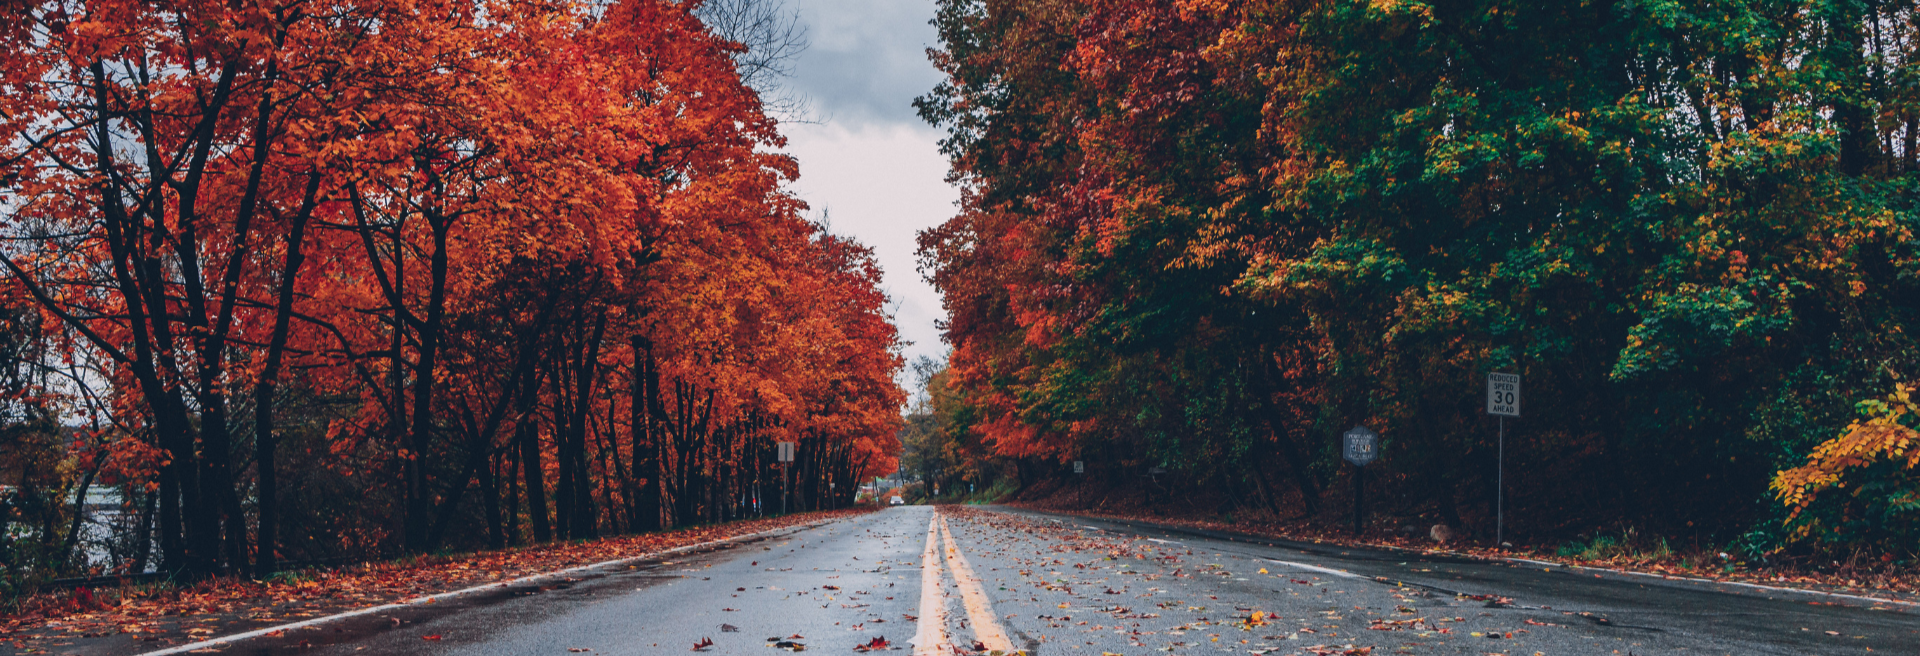
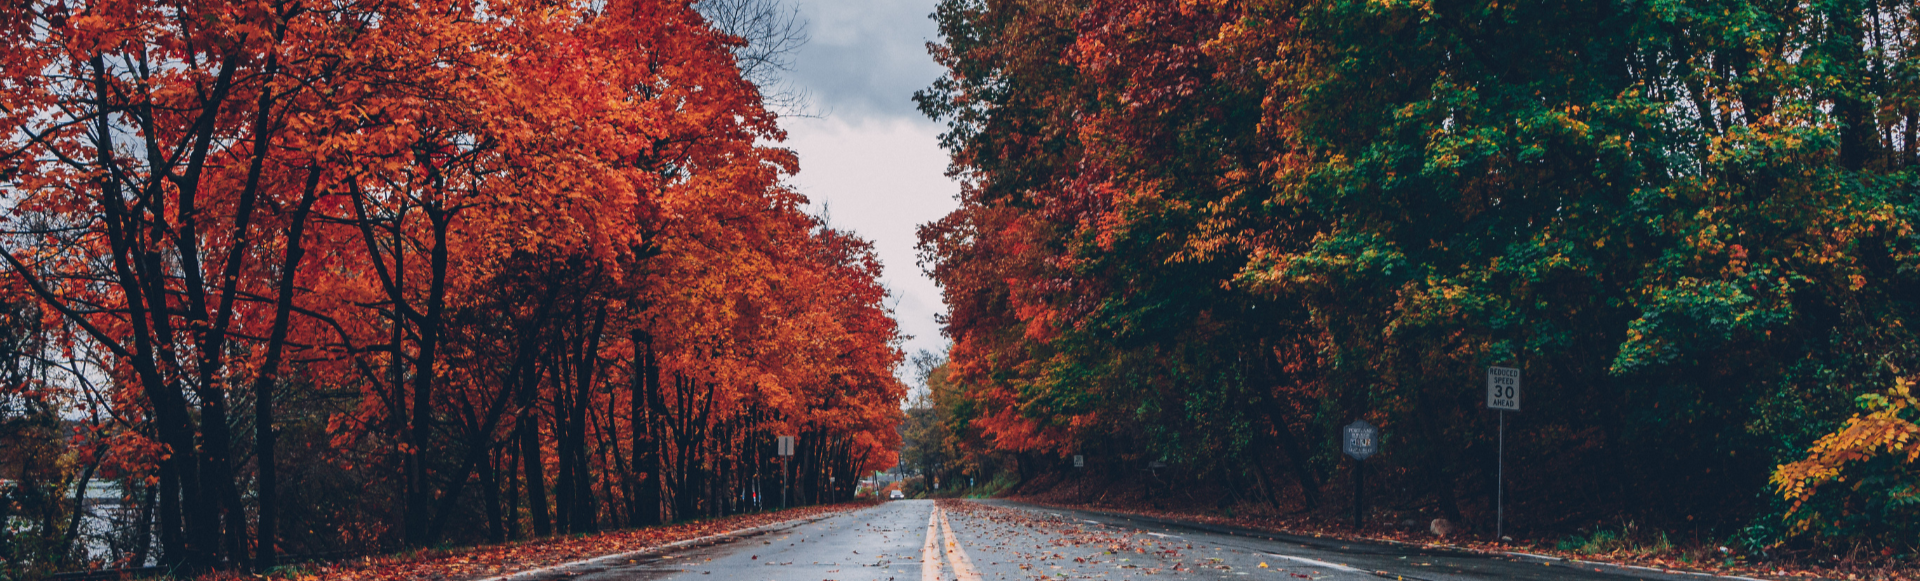
made services photos unique and added text to monthly rental page

diff --git a/src/Components/Layout/MainArea/ServicesPage/MonthlyRental/MonthlyRental.tsx b/src/Components/Layout/MainArea/ServicesPage/MonthlyRental/MonthlyRental.tsx
@@ -23,10 +23,10 @@ function MonthlyRental(): JSX.Element {
                         <h3>Summary</h3>
                         <ul>
                             <HashLink smooth to={appConfig.samePagePath + "aboutservice"}><li>About The Service</li></HashLink>
+                            <HashLink smooth to={appConfig.samePagePath + "whychoose"}><li>Why Choose?</li></HashLink>
                             <HashLink smooth to={appConfig.samePagePath + "whoisitfor"}><li>Who Is The Service For?</li></HashLink>
                             <HashLink smooth to={appConfig.samePagePath + "howitworks"}><li>How Does It Work?</li></HashLink>
                             <HashLink smooth to={appConfig.samePagePath + "taxesandwriteoff"}><li>Taxes & Business Write Off</li></HashLink>
-                            <HashLink smooth to={appConfig.samePagePath + "welcomebonus"}><li>Welcome Bonus!</li></HashLink>
                             <HashLink smooth to={appConfig.samePagePath + "contactus"}><li>Contact Us</li></HashLink>
                         </ul>
                     </div>
@@ -34,29 +34,55 @@ function MonthlyRental(): JSX.Element {
                 <div className="content">
 
                     <h3 id="aboutservice">About The  Service</h3>
-                    <p>Lorem ipsum dolor sit amet consectetur adipisicing elit. Sint sequi tempore dolores laborum hic officia
-                        esse nemo id distinctio beatae incidunt earum aspernatur vel, facere labore rerum voluptatum voluptate
-                        vitae deleniti. Perspiciatis mollitia incidunt, expedita a cupiditate possimus numquam dolorem?</p>
+                    <p>At Vasilenko Car Rental, we understand that sometimes you need more than just a quick ride. That's why
+                        we offer a convenient and cost-effective Monthly Car Rental Program designed to cater to your long-term
+                        transportation needs. Whether you're a business professional in town for an extended project, a traveler
+                        looking for an extended stay, or a local resident in need of a flexible long-term vehicle solution, our
+                        monthly rental program has you covered.</p>
+
+                    <h3 id="whychoose">Why Choose?</h3>
+                    <p>Affordability: Our monthly rates are designed to offer significant cost savings compared to traditional
+                        daily rentals. Enjoy quality vehicles at a fraction of the price.
+
+                        Flexibility: With our monthly rental program, you have the freedom to keep your rental for as long as
+                        you need, without being tied down to a fixed contract. Rent for one month or several months—it's up to you!
+
+                        Wide Vehicle Selection: Choose from our diverse fleet of well-maintained and up-to-date vehicles, including
+                        economy cars, SUVs, sedans, and more. We have the perfect vehicle for your specific needs.
+
+                        Maintenance and Roadside Assistance: Your safety and satisfaction are our top priorities. All our monthly
+                        rentals include routine maintenance, and we provide 24/7 roadside assistance for your peace of mind.
+
+                        Simple Booking Process: Booking a monthly rental with Vasilenko Car Rental is a breeze. Our user-friendly
+                        website allows you to reserve your vehicle in just a few clicks, and our customer support team is always
+                        here to assist you.
+
+                        No Hidden Fees: Transparency is key to our service. We offer clear and straightforward pricing with no
+                        hidden fees or surprises.</p>
 
                     <h3 id="whoisitfor">Who Is The Service For?</h3>
-                    <p>Lorem ipsum dolor sit amet consectetur adipisicing elit. Sint sequi tempore dolores laborum hic officia
-                        esse nemo id distinctio beatae incidunt earum aspernatur vel, facere labore rerum voluptatum voluptate
-                        vitae deleniti. Perspiciatis mollitia incidunt, expedita a cupiditate possimus numquam dolorem?</p>
+                    <p>Business Travelers: Stay productive during extended business trips with a reliable vehicle at your disposal.
+
+                        Extended Vacationers: Make the most of your vacation with the convenience of a monthly rental, allowing you
+                        to explore at your own pace.
+
+                        Local Residents: Whether your car is in the shop or you need a vehicle for a few months, our monthly program
+                        is a cost-effective solution.
+
+                        Temporary Residents: New to the area or in town for a temporary job assignment? Our monthly rental program
+                        offers the flexibility you need.</p>
 
                     <h3 id="howitworks">How Does It Work?</h3>
-                    <p>Lorem ipsum dolor sit amet consectetur adipisicing elit. Sint sequi tempore dolores laborum hic officia
-                        esse nemo id distinctio beatae incidunt earum aspernatur vel, facere labore rerum voluptatum voluptate
-                        vitae deleniti. Perspiciatis mollitia incidunt, expedita a cupiditate possimus numquam dolorem?</p>
+                    <p>משהו בסגנון של מה שעשיתי לגני</p>
 
                     <h3 id="taxesandwriteoff">Taxes & Business Write Off</h3>
-                    <p>Lorem ipsum dolor sit amet consectetur adipisicing elit. Sint sequi tempore dolores laborum hic officia
-                        esse nemo id distinctio beatae incidunt earum aspernatur vel, facere labore rerum voluptatum voluptate
-                        vitae deleniti. Perspiciatis mollitia incidunt, expedita a cupiditate possimus numquam dolorem?</p>
-
-                    <h3 id="welcomebonus">Welcome Bonus!</h3>
-                    <p>Lorem ipsum dolor sit amet consectetur adipisicing elit. Sint sequi tempore dolores laborum hic officia
-                        esse nemo id distinctio beatae incidunt earum aspernatur vel, facere labore rerum voluptatum voluptate
-                        vitae deleniti. Perspiciatis mollitia incidunt, expedita a cupiditate possimus numquam dolorem?</p>
+                    <p>Vasilenko Car Rental, we're here to help you navigate the financial aspects of your car rental needs. One of
+                        the advantages of partnering with us is the potential for valuable tax deductions and business write-offs.
+                        Depending on your business structure and the nature of your rentals, you may be eligible to claim a portion
+                        of your car rental expenses as a tax deduction. By doing so, you can reduce your taxable income and ultimately
+                        lower your tax liability. It's a smart way to manage your finances and maximize savings while providing
+                        essential transportation for your business needs. Always consult with your accountant or tax advisor to
+                        understand how our car rental services can work to your advantage in your specific financial situation.</p>
 
                     <h3 id="contactus">Contact Us!</h3>
                     <p>form</p>

diff --git a/src/Components/Layout/MainArea/ServicesPage/GroupRental/Chauffeur.tsx b/src/Components/Layout/MainArea/ServicesPage/GroupRental/Chauffeur.tsx
@@ -9,7 +9,7 @@ function GroupRental(): JSX.Element {
         <div className="GroupRental">
             <div id="header">
                 <div className="img-container">
-                    <img src={require("../../../../../Assets/Images/monthly2.png")} />
+                    <img src={require("../../../../../Assets/Images/group2.png")} />
                     <div className="img-container-content">
                         <div>
                             <h1>Group Car Rental</h1>

diff --git a/src/Components/Layout/MainArea/ServicesPage/Chauffeur/Chauffeur.tsx b/src/Components/Layout/MainArea/ServicesPage/Chauffeur/Chauffeur.tsx
@@ -9,7 +9,7 @@ function Chauffeur(): JSX.Element {
         <div className="Chauffeur">
             <div id="header">
                 <div className="img-container">
-                    <img src={require("../../../../../Assets/Images/monthly2.png")} />
+                    <img src={require("../../../../../Assets/Images/oneday2.png")} />
                     <div className="img-container-content">
                         <div>
                             <h1>Chauffeur Services</h1>

diff --git a/src/Components/Layout/MainArea/ServicesPage/OneDay/OneDay.tsx b/src/Components/Layout/MainArea/ServicesPage/OneDay/OneDay.tsx
@@ -9,7 +9,7 @@ function OneDay(): JSX.Element {
         <div className="OneDay">
             <div id="header">
                 <div className="img-container">
-                    <img src={require("../../../../../Assets/Images/monthly2.png")} />
+                    <img src={require("../../../../../Assets/Images/oneday3.png")} />
                     <div className="img-container-content">
                         <div>
                             <h1>One Day Car Rental</h1>

diff --git a/src/Components/Layout/MainArea/ServicesPage/OneWay/OneWay.tsx b/src/Components/Layout/MainArea/ServicesPage/OneWay/OneWay.tsx
@@ -9,7 +9,7 @@ function OneWay(): JSX.Element {
         <div className="OneWay">
             <div id="header">
                 <div className="img-container">
-                    <img src={require("../../../../../Assets/Images/monthly2.png")} />
+                    <img src={require("../../../../../Assets/Images/road22.png")} />
                     <div className="img-container-content">
                         <div>
                             <h1>One Way Car Rental</h1>
